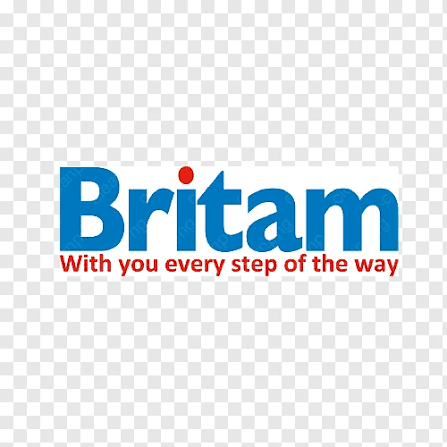
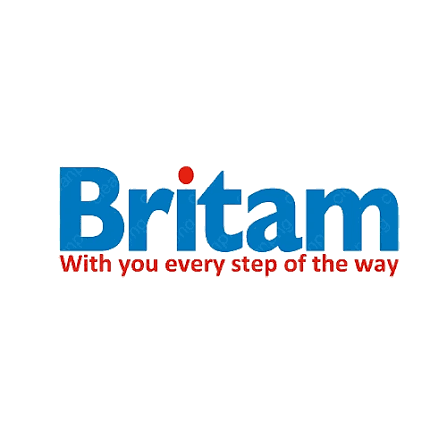
Add files via upload

diff --git a/public/styles.css b/public/styles.css
@@ -301,3 +301,38 @@ p { margin: 0 0 var(--s4); }
 
 /* November 2026 homepage refinement */
 .brand-logo{display:block;width:230px;max-width:34vw;height:auto;max-height:58px;object-fit:contain}.brand-mark{display:none}.hero-photo h1,.hero-photo .lead,.hero-photo .eyebrow,.hero-photo .hero-note{color:#fff!important;text-shadow:0 1px 3px rgba(0,0,0,.3)}.hero-photo .lead{font-weight:500}.hero-photo .btn-light{color:#006C67;background:#fff;border-color:#fff}.hero-photo .btn-ghost{color:#fff;border-color:#fff}
+
+/* Header/hero/contact refinements based on visual review */
+.brand-logo{width:74px;height:74px;max-width:none;max-height:none;object-fit:contain;background:transparent}
+.nav-bar{gap:1.1rem}
+.nav-list{gap:clamp(1rem,1.45vw,1.65rem)}
+.nav-list li:last-child a{white-space:nowrap}
+.nav-list a{white-space:nowrap}
+.hero-photo h1 em{font-style:normal;color:#fff!important}
+.hero-photo .hero-highlight{display:inline;color:#fff!important;font-style:normal;font-weight:inherit;text-shadow:0 1px 4px rgba(0,0,0,.32)}
+.hero-photo h1{color:#fff!important}
+.contact-icon{width:1.05em;height:1.05em;display:inline-block;vertical-align:-.15em;margin-right:.25em;fill:none;stroke:currentColor;stroke-width:1.8;stroke-linecap:round;stroke-linejoin:round}
+.contact-icon-wa{stroke-width:1.45}
+@media(max-width:979px){.brand-logo{width:64px;height:64px}}
+/* 2026 visual and conversion refinement */
+.brand-logo{width:220px;max-width:30vw;height:auto;max-height:62px;object-fit:contain;background:transparent}
+.home-products{padding:clamp(2.5rem,5vw,5rem) 0;background:#fff}
+.home-product-grid{display:grid;grid-template-columns:repeat(3,minmax(0,1fr));gap:1.25rem;margin:2rem 0}
+.home-product-card{display:flex;flex-direction:column;overflow:hidden;border:1px solid #e6e9e8;border-radius:12px;background:#fff;text-decoration:none;box-shadow:0 4px 18px rgba(0,0,0,.04);transition:transform .2s,box-shadow .2s}
+.home-product-card:hover{transform:translateY(-3px);box-shadow:0 12px 28px rgba(0,0,0,.1)}
+.home-product-card img{width:100%;height:220px;object-fit:cover;display:block}
+.home-product-card span{padding:1.1rem 1.2rem 1.3rem;display:grid;gap:.35rem}
+.home-product-card strong{font-size:1.2rem;color:var(--ink)}.home-product-card small{font-size:.94rem;color:var(--ink-soft)}
+.centered{justify-content:center}
+.testimonials{background:#f7f8f7}
+.testimonial-grid{display:grid;grid-template-columns:repeat(3,minmax(0,1fr));gap:1.2rem}
+.testimonial-grid article{padding:1.6rem;border-radius:12px;background:white;border:1px solid #e5e9e7;box-shadow:0 4px 18px rgba(0,0,0,.035)}
+.quote-mark{font-size:3rem;line-height:.7;color:var(--red);font-family:Georgia,serif}
+.testimonial-grid article p{font-size:1.05rem;line-height:1.7}.testimonial-grid small{display:block;color:var(--ink-soft);font-size:.88rem;margin-top:1rem}
+.testimonial-note{font-size:.78rem;color:#66716e;margin-top:1.3rem}
+.blog-feature-grid{display:grid;grid-template-columns:repeat(3,1fr);gap:1rem;margin:1.5rem 0 2.5rem}
+.blog-feature-grid a{overflow:hidden;border-radius:10px;border:1px solid var(--line);display:flex;flex-direction:column;text-decoration:none;color:var(--ink);background:#fff}
+.blog-feature-grid img{width:100%;height:200px;object-fit:cover}.blog-feature-grid strong{padding:1rem}
+.blog-intro{max-width:65ch}
+@media(max-width:900px){.home-product-grid{grid-template-columns:repeat(2,minmax(0,1fr))}.testimonial-grid{grid-template-columns:1fr}.blog-feature-grid{grid-template-columns:1fr 1fr}}
+@media(max-width:600px){.home-product-grid,.blog-feature-grid{grid-template-columns:1fr}.home-product-card img{height:190px}.brand-logo{width:170px;max-width:42vw;max-height:48px}}
